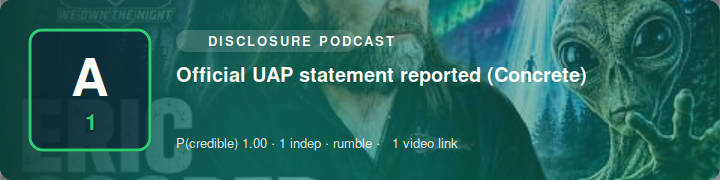
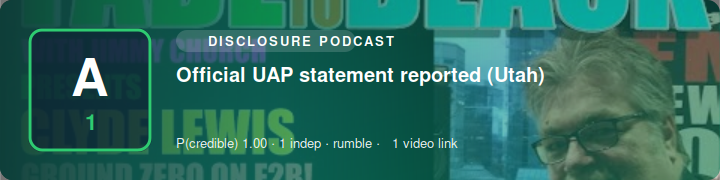
SITREP 2026-07-20 06:50 UTC

diff --git a/index.html b/index.html
@@ -1,1 +1,1 @@
-<!doctype html><meta charset=utf-8><title>Science Bob News — SITREP</title><style>body{font:16px/1.5 system-ui,sans-serif;max-width:760px;margin:2rem auto;padding:0 1rem;color:#111}h1{font-size:1.5rem}h2{margin-top:1.6rem;border-bottom:1px solid #ddd;padding-bottom:.2rem}ul{list-style:none;padding:0}li{margin:.9rem 0}.hl{font-weight:600}.meta{color:#555;font-size:.85rem}.src{font-size:.85rem}.vid{font-size:.85rem;margin-top:.15rem}.card{display:block;max-width:100%;height:auto;border-radius:8px;margin:.4rem 0 .5rem}.upd{background:#fde68a;padding:0 .3rem;border-radius:.2rem;font-size:.75rem}.sub{color:#777;font-size:.85rem}footer{color:#777;font-size:.8rem;margin-top:2rem;border-top:1px solid #ddd;padding-top:.6rem}</style><h1>🛸 Science Bob News</h1><div class="sub">UAP / UFO / USO SITREP · updated 2026-07-20 06:40 UTC · automated</div><h2>Corroborated</h2><ul><li><img class="card" src="https://n4hy.github.io/sciencebobnews-site/card_c_1.svg" alt="" width="720" height="180"><div class="hl">UAP report</div><div class="meta">reliability <b>A1</b> · P(credible)=1.0 · 2 independent source(s) · mastodon</div><div class="src"><a href="https://mastodon.online/@KilleansRow/116950757565033042">@KilleansRow@mastodon.online</a> · <a href="https://mastodon.social/@veryexcitingtime/116943386009393198">@veryexcitingtime</a></div></li></ul><h2>Developing / unconfirmed</h2><ul><li><img class="card" src="https://n4hy.github.io/sciencebobnews-site/card_d_1.svg" alt="" width="720" height="180"><div class="hl">Official UAP statement reported (Crop)</div><div class="meta">reliability <b>A1</b> · P(credible)=1.0 · 1 independent source(s) · mastodon</div><div class="src"><a href="https://mastodon.au/@vibewire/116942550555090693">@vibewire@mastodon.au</a></div></li><li><img class="card" src="https://n4hy.github.io/sciencebobnews-site/card_d_2.svg" alt="" width="720" height="180"><div class="hl">UAP report</div><div class="meta">reliability <b>A1</b> · P(credible)=1.0 · 1 independent source(s) · mastodon</div><div class="src"><a href="https://social.ahlroos.me/@yle_fi_bot/116944912720924063">@yle_fi_bot@ahlroos.me</a></div></li><li><img class="card" src="https://n4hy.github.io/sciencebobnews-site/card_d_3.svg" alt="" width="720" height="180"><div class="hl">UAP whistleblower testimony reported</div><div class="meta">reliability <b>A1</b> · P(credible)=1.0 · 1 independent source(s) · mastodon</div><div class="src"><a href="https://mastodon.au/@vibewire/116947246139725248">@vibewire@mastodon.au</a></div></li><li><img class="card" src="https://n4hy.github.io/sciencebobnews-site/card_d_4.svg" alt="" width="720" height="180"><div class="hl">Official UAP statement reported (Concrete)</div><div class="meta">reliability <b>A1</b> · P(credible)=1.0 · 1 independent source(s) · rumble</div><div class="src"><a href="https://www.youtube.com/watch?v=ze5dhbpzszY">@podcast</a></div><div class="vid">📹 <a href="https://www.youtube.com/watch?v=ze5dhbpzszY">video</a></div></li><li><img class="card" src="https://n4hy.github.io/sciencebobnews-site/card_d_5.svg" alt="" width="720" height="180"><div class="hl">Official UAP statement reported (Deadwood)</div><div class="meta">reliability <b>A1</b> · P(credible)=1.0 · 1 independent source(s) · rumble</div><div class="src"><a href="https://www.youtube.com/watch?v=9fXiv3_PjGY">@podcast</a></div><div class="vid">📹 <a href="https://www.youtube.com/watch?v=9fXiv3_PjGY">video</a></div></li></ul><footer><b>Powered by Science Bob News.</b> Free to use with credit (see LICENSE). Headlines are factual restatements in the engine's own words; click sources for originals. Single-origin reposts collapse to one source; prosaic candidates flagged where offered.</footer>
+<!doctype html><meta charset=utf-8><title>Science Bob News — SITREP</title><style>body{font:16px/1.5 system-ui,sans-serif;max-width:760px;margin:2rem auto;padding:0 1rem;color:#111}h1{font-size:1.5rem}h2{margin-top:1.6rem;border-bottom:1px solid #ddd;padding-bottom:.2rem}ul{list-style:none;padding:0}li{margin:.9rem 0}.hl{font-weight:600}.meta{color:#555;font-size:.85rem}.src{font-size:.85rem}.vid{font-size:.85rem;margin-top:.15rem}.card{display:block;max-width:100%;height:auto;border-radius:8px;margin:.4rem 0 .5rem}.upd{background:#fde68a;padding:0 .3rem;border-radius:.2rem;font-size:.75rem}.sub{color:#777;font-size:.85rem}footer{color:#777;font-size:.8rem;margin-top:2rem;border-top:1px solid #ddd;padding-top:.6rem}</style><h1>🛸 Science Bob News</h1><div class="sub">UAP / UFO / USO SITREP · updated 2026-07-20 06:50 UTC · automated</div><h2>Corroborated</h2><ul><li><img class="card" src="https://n4hy.github.io/sciencebobnews-site/card_c_1.svg" alt="" width="720" height="180"><div class="hl">UAP report</div><div class="meta">reliability <b>A1</b> · P(credible)=1.0 · 2 independent source(s) · mastodon</div><div class="src"><a href="https://mastodon.online/@KilleansRow/116950757565033042">@KilleansRow@mastodon.online</a> · <a href="https://mastodon.social/@veryexcitingtime/116943386009393198">@veryexcitingtime</a></div></li></ul><h2>Developing / unconfirmed</h2><ul><li><img class="card" src="https://n4hy.github.io/sciencebobnews-site/card_d_1.svg" alt="" width="720" height="180"><div class="hl">Official UAP statement reported (Crop)</div><div class="meta">reliability <b>A1</b> · P(credible)=1.0 · 1 independent source(s) · mastodon</div><div class="src"><a href="https://mastodon.au/@vibewire/116942550555090693">@vibewire@mastodon.au</a></div></li><li><img class="card" src="https://n4hy.github.io/sciencebobnews-site/card_d_2.svg" alt="" width="720" height="180"><div class="hl">UAP report</div><div class="meta">reliability <b>A1</b> · P(credible)=1.0 · 1 independent source(s) · mastodon</div><div class="src"><a href="https://social.ahlroos.me/@yle_fi_bot/116944912720924063">@yle_fi_bot@ahlroos.me</a></div></li><li><img class="card" src="https://n4hy.github.io/sciencebobnews-site/card_d_3.svg" alt="" width="720" height="180"><div class="hl">UAP whistleblower testimony reported</div><div class="meta">reliability <b>A1</b> · P(credible)=1.0 · 1 independent source(s) · mastodon</div><div class="src"><a href="https://mastodon.au/@vibewire/116947246139725248">@vibewire@mastodon.au</a></div></li><li><img class="card" src="https://n4hy.github.io/sciencebobnews-site/card_d_4.svg" alt="" width="720" height="180"><div class="hl">Official UAP statement reported (Utah)</div><div class="meta">reliability <b>A1</b> · P(credible)=1.0 · 1 independent source(s) · rumble</div><div class="src"><a href="https://www.youtube.com/watch?v=CUnoufRiMrk">@podcast</a></div><div class="vid">📹 <a href="https://www.youtube.com/watch?v=CUnoufRiMrk">video</a></div></li><li><img class="card" src="https://n4hy.github.io/sciencebobnews-site/card_d_5.svg" alt="" width="720" height="180"><div class="hl">Official UAP statement reported</div><div class="meta">reliability <b>A1</b> · P(credible)=1.0 · 1 independent source(s) · mastodon</div><div class="src"><a href="https://mastodon.au/@vibewire/116947245997831106">@vibewire@mastodon.au</a></div></li></ul><footer><b>Powered by Science Bob News.</b> Free to use with credit (see LICENSE). Headlines are factual restatements in the engine's own words; click sources for originals. Single-origin reposts collapse to one source; prosaic candidates flagged where offered.</footer>

diff --git a/sitrep.md b/sitrep.md
@@ -1,5 +1,5 @@
 # 🛸 Science Bob News — UAP / UFO / USO SITREP
-*Updated 2026-07-20 06:40 UTC · auto-generated · sources credited & linked · reliability ratings are automated, not editorial*
+*Updated 2026-07-20 06:50 UTC · auto-generated · sources credited & linked · reliability ratings are automated, not editorial*
 
 ## Corroborated
 
@@ -22,15 +22,14 @@
 3. UAP whistleblower testimony reported — reliability A1 · 1 source(s)  
    [@vibewire@mastodon.au](https://mastodon.au/@vibewire/116947246139725248)
 
-![Official UAP statement reported (Concrete)](https://n4hy.github.io/sciencebobnews-site/card_d_4.svg)
-4. Official UAP statement reported (Concrete) — reliability A1 · 1 source(s)  
-   [@podcast](https://www.youtube.com/watch?v=ze5dhbpzszY)  
-   📹 [video](https://www.youtube.com/watch?v=ze5dhbpzszY)
+![Official UAP statement reported (Utah)](https://n4hy.github.io/sciencebobnews-site/card_d_4.svg)
+4. Official UAP statement reported (Utah) — reliability A1 · 1 source(s)  
+   [@podcast](https://www.youtube.com/watch?v=CUnoufRiMrk)  
+   📹 [video](https://www.youtube.com/watch?v=CUnoufRiMrk)
 
-![Official UAP statement reported (Deadwood)](https://n4hy.github.io/sciencebobnews-site/card_d_5.svg)
-5. Official UAP statement reported (Deadwood) — reliability A1 · 1 source(s)  
-   [@podcast](https://www.youtube.com/watch?v=9fXiv3_PjGY)  
-   📹 [video](https://www.youtube.com/watch?v=9fXiv3_PjGY)
+![Official UAP statement reported](https://n4hy.github.io/sciencebobnews-site/card_d_5.svg)
+5. Official UAP statement reported — reliability A1 · 1 source(s)  
+   [@vibewire@mastodon.au](https://mastodon.au/@vibewire/116947245997831106)
 
 ---
 *Powered by Science Bob News. Free to use with credit (see LICENSE). Headlines are factual restatements in the engine's own words — click through to the linked sources for originals. Reposts of a single origin are collapsed to one source; candidate prosaic explanations are flagged where offered.*
